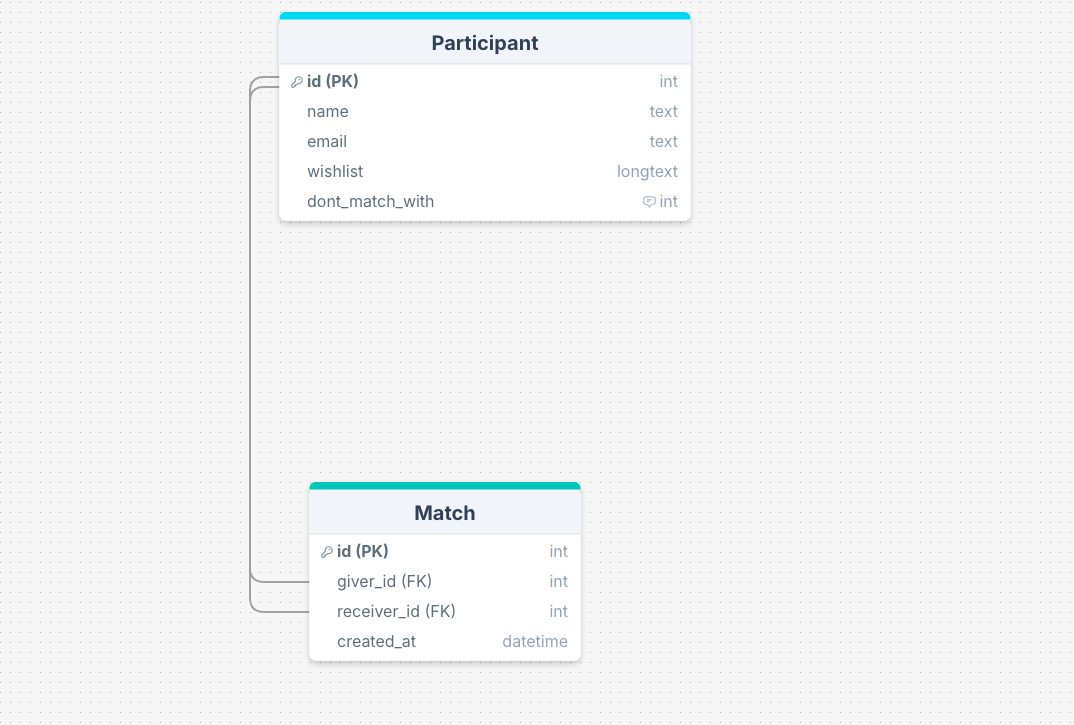
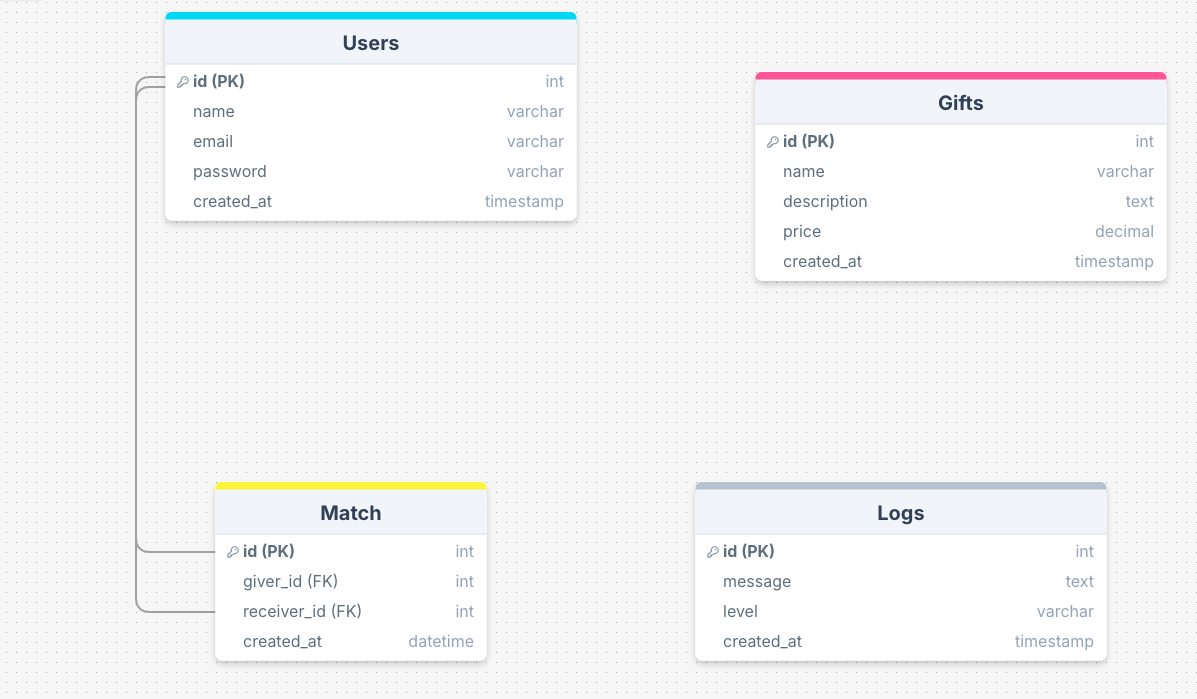
Update README.md to reflect new database schema and add ER diagram

diff --git a/README.md b/README.md
@@ -73,41 +73,52 @@ Below are the wireframes for the project:
 
 ## Database Schema
 
-The project uses a simple relational database structure to support the core Secret Santa features: adding participants, preventing invalid pairings, and generating matches.
+The project consists of four main apps: `gifts`, `logs`, `matches`, and `users`. Below is the updated schema for each app:
 
-### Participant Table
+### Gifts App
 
-Stores information about each person taking part in the Secret Santa.
+| Field            | Type      | Description                                      |
+|------------------|-----------|--------------------------------------------------|
+| id (PK)          | int       | Unique identifier for each gift                 |
+| name             | varchar   | Name of the gift                                |
+| description      | text      | Description of the gift                         |
+| price            | decimal   | Price of the gift                               |
+| created_at       | timestamp | Timestamp of when the gift was added            |
 
-| Field            | Type   | Description                                      |
-|------------------|--------|--------------------------------------------------|
-| id (PK)          | int    | Unique identifier for each participant          |
-| name             | text   | Participant's name                              |
-| email            | text   | Optional email address                          |
-| wishlist         | longtext | Optional gift wishlist                          |
-| dont_match_with  | int (FK) | Self-referencing field to avoid matching two specific people |
+### Logs App
 
-### Match Table
+| Field            | Type      | Description                                      |
+|------------------|-----------|--------------------------------------------------|
+| id (PK)          | int       | Unique identifier for each log entry            |
+| message          | text      | Log message                                     |
+| level            | varchar   | Log level (e.g., INFO, ERROR)                   |
+| created_at       | timestamp | Timestamp of the log entry                      |
 
-Stores the final Secret Santa pairings once generated.
+### Matches App
 
-| Field            | Type   | Description                                      |
-|------------------|--------|--------------------------------------------------|
-| id (PK)          | int    | Unique identifier for each match record         |
-| giver_id (FK)    | int    | Participant who gives the gift                  |
-| receiver_id (FK) | int    | Participant who receives the gift               |
-| created_at       | datetime | Timestamp of when the match was created         |
+| Field            | Type      | Description                                      |
+|------------------|-----------|--------------------------------------------------|
+| id (PK)          | int       | Unique identifier for each match record         |
+| giver_id (FK)    | int       | Participant who gives the gift                  |
+| receiver_id (FK) | int       | Participant who receives the gift               |
+| created_at       | timestamp | Timestamp of when the match was created         |
+
+### Users App
+
+| Field            | Type      | Description                                      |
+|------------------|-----------|--------------------------------------------------|
+| id (PK)          | int       | Unique identifier for each user                 |
+| username         | varchar   | Username of the user                            |
+| email            | varchar   | Email address of the user                       |
+| password         | varchar   | Hashed password                                 |
+| created_at       | timestamp | Timestamp of when the user was created          |
 
 ### Relationships
 
-- `Participant.dont_match_with → Participant.id`
-  (Self-referencing relationship to support "don't match me with X".)
-
-- `Match.giver_id → Participant.id`
-
-- `Match.receiver_id → Participant.id`
-  (Each match links a giver and a receiver.)
+- `Matches.giver_id → Users.id`
+- `Matches.receiver_id → Users.id`
+- `Gifts` and `Users` can be linked for wishlist functionality.
 
 ### ER Diagram
 
-(diagram screenshot here (Document/images/database/ER_digram.png))
+![ER Diagram](Document/images/database/ER_digram.png)
